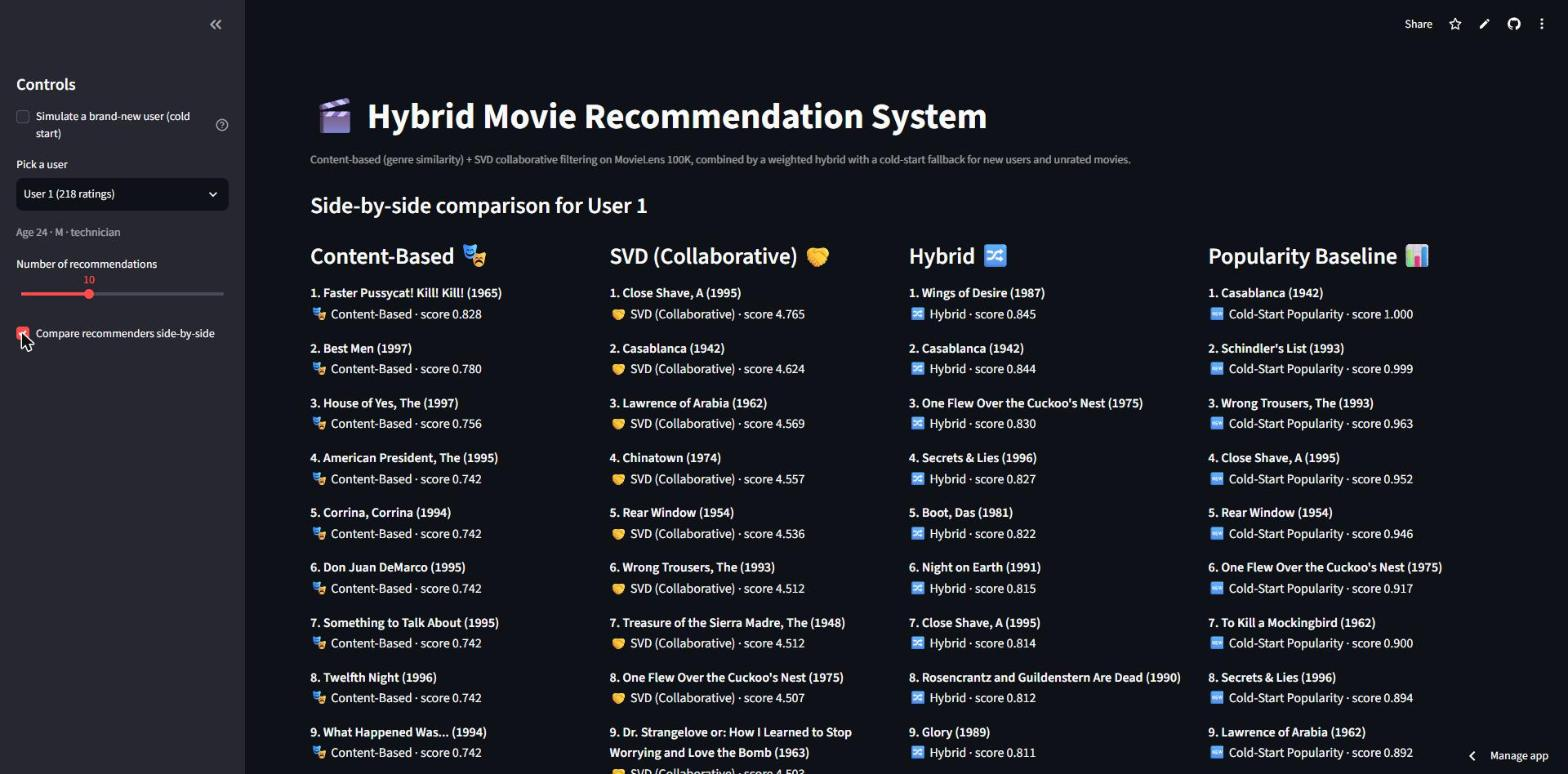
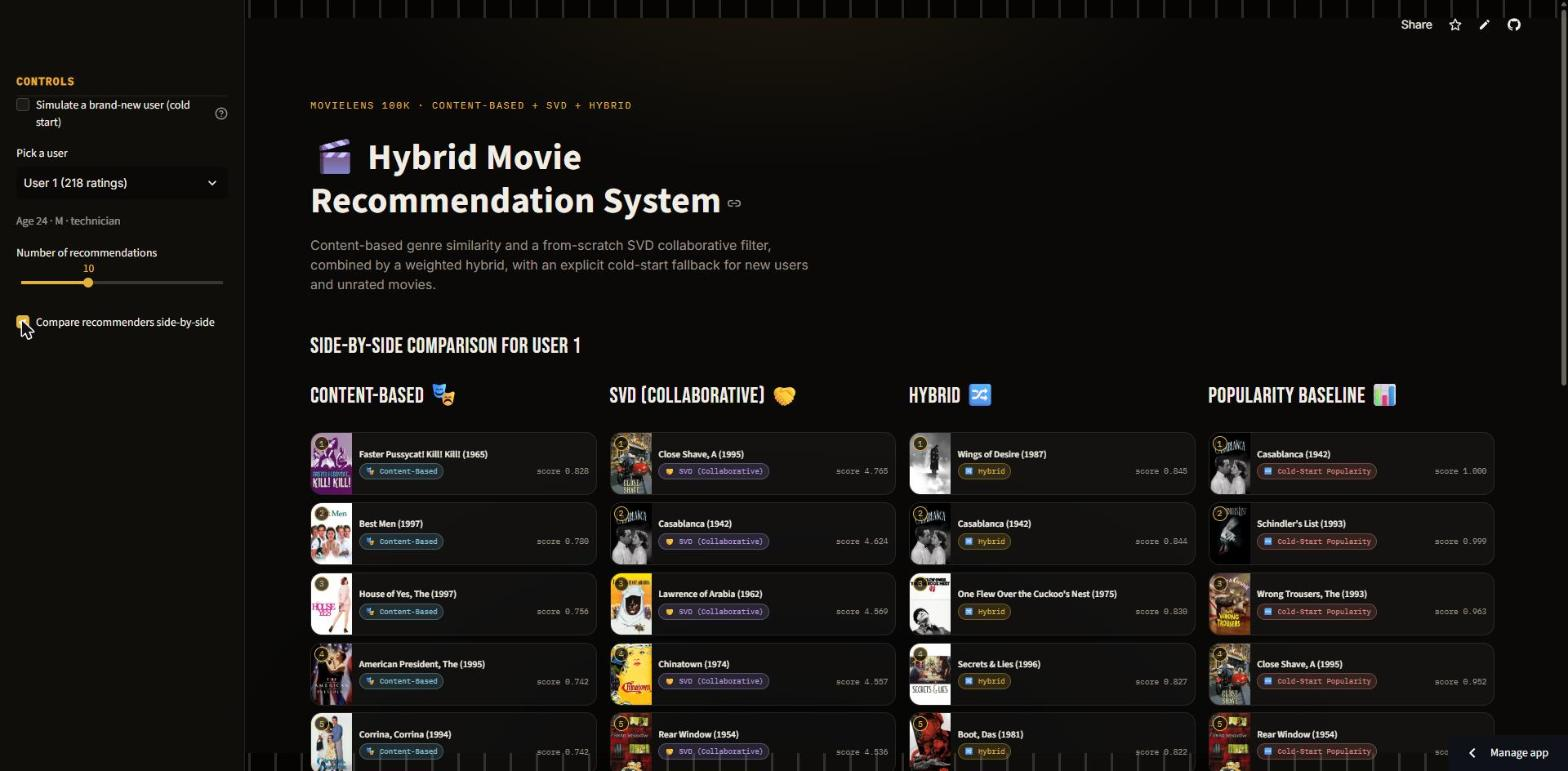
Update live screenshot now that the deployed app has real TMDb posters

diff --git a/claude.md b/claude.md
@@ -122,10 +122,11 @@ Hybrid Movie Recommendation System — a portfolio project demonstrating product
   hybrid=gold, cold_start=red) and real posters, and the cold-start simulated-user path
   still correctly shows the raw content/SVD/hybrid columns empty while Popularity
   Baseline populates with real posters. No exceptions in any state.
-- README's screenshot (`screenshots/side-by-side-comparison.jpg`) predates this
-  redesign and now shows the old plain-text UI -- needs to be recaptured once the live
-  Streamlit Cloud app has the TMDb secret set, so the recaptured screenshot shows real
-  posters rather than placeholders.
+- The user pasted the TMDb key into the deployed app's Streamlit Cloud secrets
+  themselves (Claude never touched that form, per the policy above). Confirmed live:
+  the deployed app rebuilt and now renders real posters. README's screenshot
+  (`screenshots/side-by-side-comparison.jpg`) was recaptured from the live deploy at
+  this point, superseding the placeholder-era one from Phase 6.
 
 ## Tests status (Phase 5)
 - 41 tests across `tests/test_data_pipeline.py`, `tests/test_models.py`,
